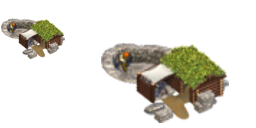
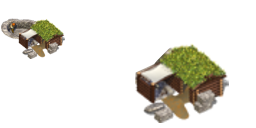
better determination of mouse location, balancing, polishing

Changed region(s): [[0.375, 0.3125, 0.6562, 0.6562]]

diff --git a/mouse.cpp b/mouse.cpp
@@ -367,10 +367,11 @@ std::pair<int, int> game_mouse::find_mouse_location(int screen_position_x, int s
 	std::pair<int, int> founded_tile;
 	bool founded = false;
 	bool secondary_founded = false;		//if mouse is not on top of tile but on side of tile
-	for(auto coordinates : possible_tiles)
+	
+	for(int i=possible_tiles.size() - 1; i>= 0; --i)
 	{
-		int x = coordinates.first;
-		int y = coordinates.second;
+		int x = possible_tiles[i].first;
+		int y = possible_tiles[i].second;
 	
 		if(((x >= 0) && (x < game_info::map_width)) && ((y >= 0) && (y < game_info::map_height)))
 		{
@@ -379,7 +380,7 @@ std::pair<int, int> game_mouse::find_mouse_location(int screen_position_x, int s
 				//correct tile? (maybe it should also take in account buildings on this tile
 			if(std::abs(mouse_game_x - t->show_game_x()) + 2*(std::abs(mouse_game_y - t->show_game_y() + t->show_surface_height() * 32)) <= 32)
 			{
-				founded_tile = coordinates;
+				founded_tile = possible_tiles[i];
 				founded = true;
 				break;
 			}
@@ -387,7 +388,7 @@ std::pair<int, int> game_mouse::find_mouse_location(int screen_position_x, int s
 			else if((std::abs(mouse_game_x - t->show_game_x()) <= 32) && (mouse_game_y >= t->show_game_y() - t->show_surface_height() * 32) && (!founded))
 			{
 				secondary_founded = true;
-				founded_tile = coordinates;
+				founded_tile = possible_tiles[i];
 				//no break because I want the last one (it should be nearest to mouse location)
 			}
 		}

diff --git a/session.cpp b/session.cpp
@@ -24,14 +24,14 @@ game_session::game_session(std::vector<int> starting_resources, int starting_hon
 		break;
 		case(1):
 		{
-			time_to_invasion = 1200*game_info::fps;		//first_invasion - 20 minutes
-			invasion_interval = 800*game_info::fps;	
+			time_to_invasion = 2400*game_info::fps;		//first_invasion - 40 minutes
+			invasion_interval = 1600*game_info::fps;	
 		}
 		break;
 		case(2):
 		{
-			time_to_invasion = 600*game_info::fps;
-			invasion_interval = 400*game_info::fps;
+			time_to_invasion = 1200*game_info::fps;
+			invasion_interval = 800*game_info::fps;
 		}
 		break;
 		default:
@@ -46,8 +46,6 @@ game_session::game_session(std::vector<int> starting_resources, int starting_hon
 	game_started = false;
 	
 	button::set_basic_button_list(true);
-
-	//init_static_variables();
 }
 
 void game_session::update(game_mouse* mouse, bool& done)
